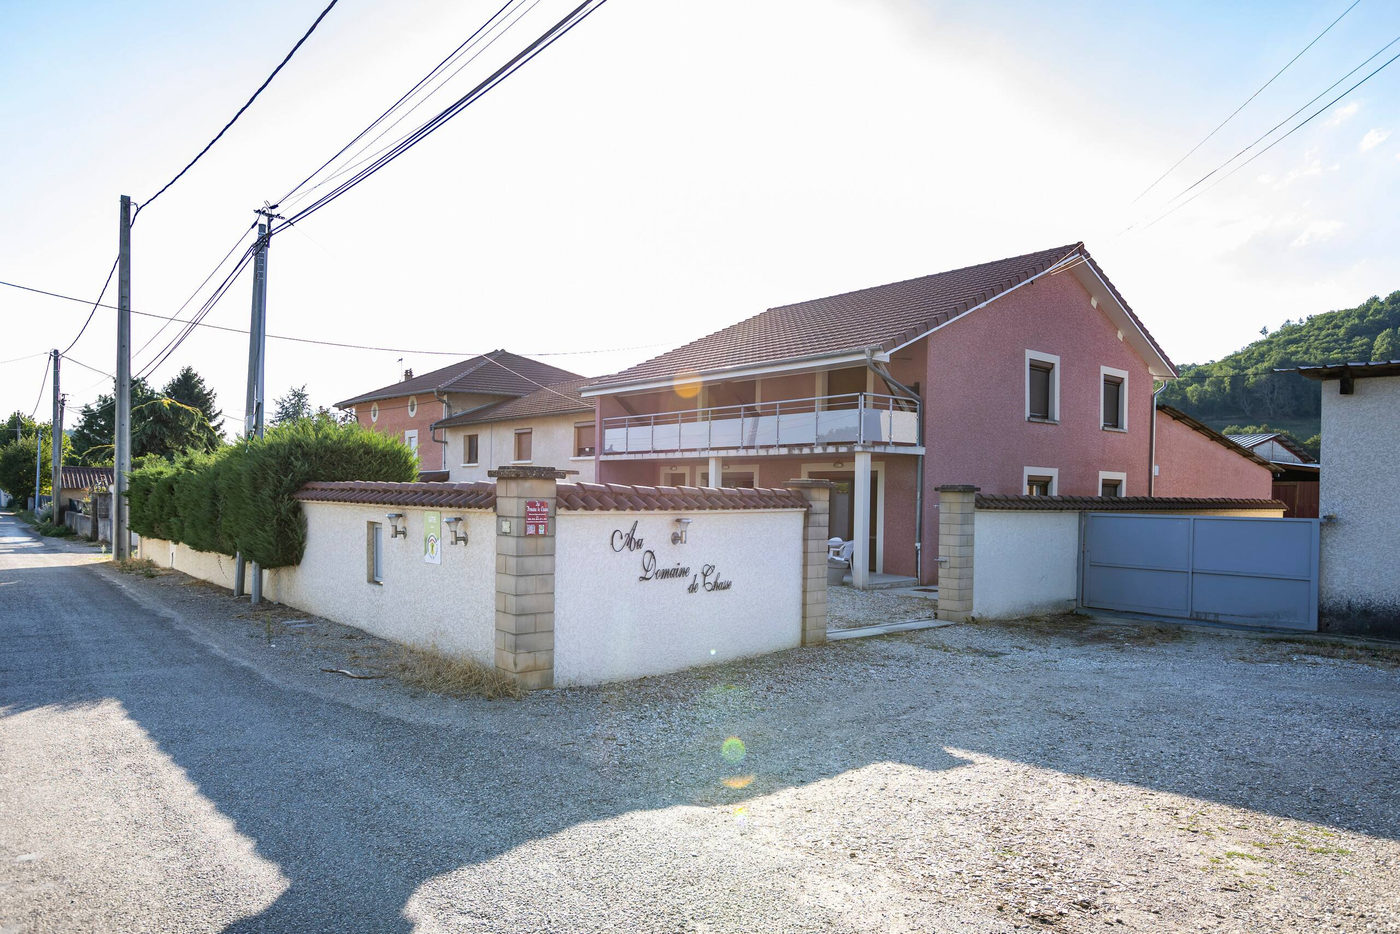
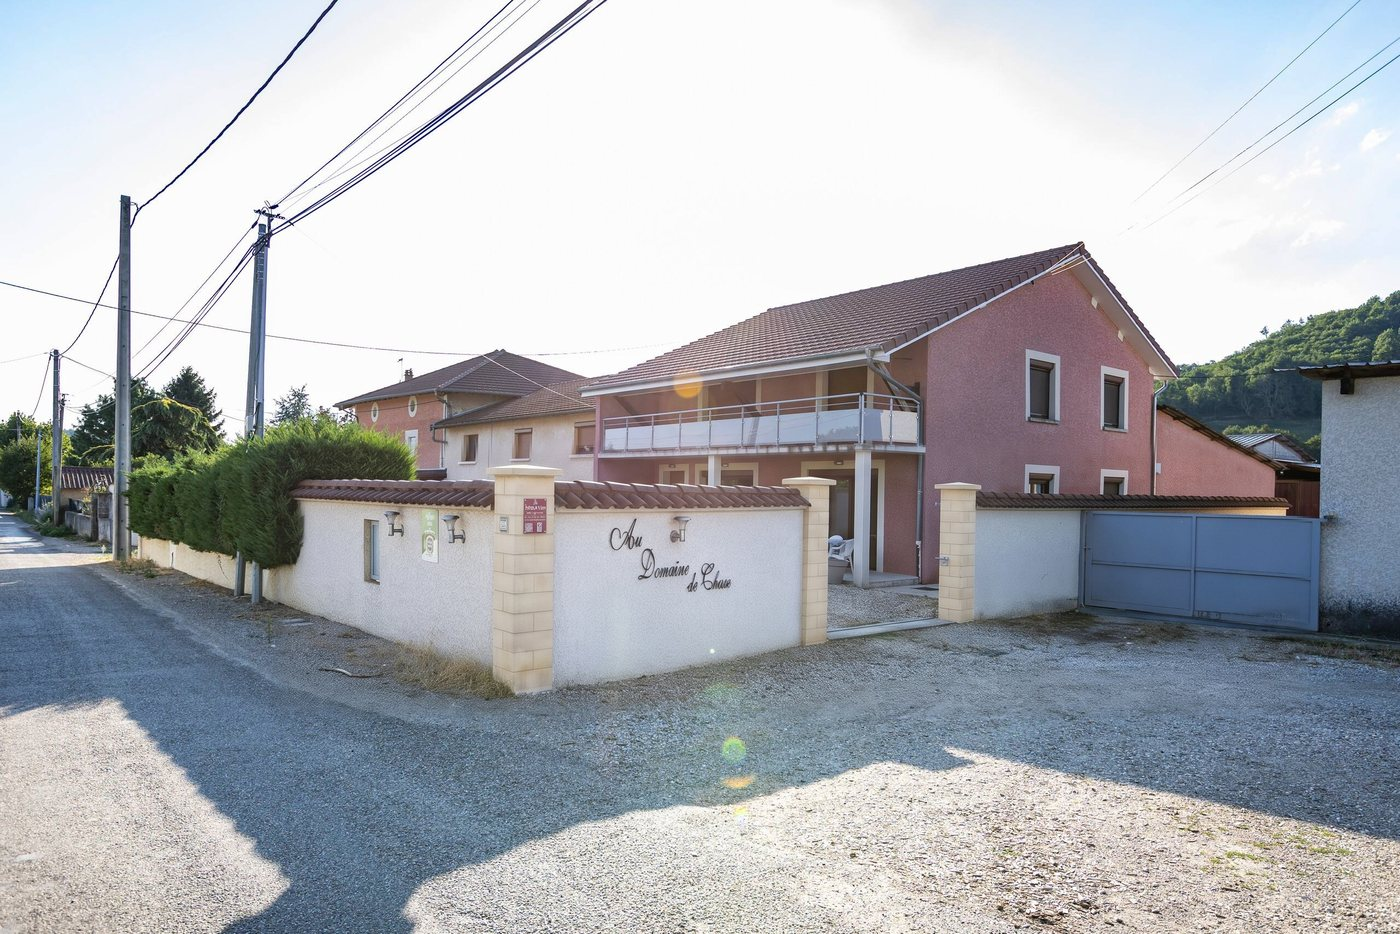
Piliers propres sur deux photos de l'entrée, galerie à 15 photos (bureau, salon de l'étage, salle de bain du rez-de-chaussée)

diff --git a/index.html b/index.html
@@ -118,7 +118,7 @@
 <section class="section creme" id="galerie">
   <div class="conteneur">
     <div class="entete-section"><div><span class="surtitre"><svg viewBox="0 0 24 24" fill="none" stroke="currentColor" stroke-width="1.7" stroke-linecap="round" stroke-linejoin="round" aria-hidden="true"><path d="M12 22V9"/><path d="M12 13c-2.5 0-4-1.6-4-4 2.5 0 4 1.6 4 4zM12 13c2.5 0 4-1.6 4-4-2.5 0-4 1.6-4 4zM12 9c-2.2 0-3.5-1.4-3.5-3.5C10.7 5.5 12 6.9 12 9zM12 9c2.2 0 3.5-1.4 3.5-3.5C13.3 5.5 12 6.9 12 9zM12 5.5c-1-1-1-2.5 0-3.5 1 1 1 2.5 0 3.5z"/></svg>En images</span><h2>La vie <em class="it">au domaine</em></h2></div></div>
-    <div class="mosaique" data-reveal><button class="grand" data-galerie="images/gite/grande-table.jpg" data-legende="La grande table de la salle de loisirs" aria-label="Agrandir : La grande table de la salle de loisirs"><img src="images/gite/grande-table.jpg" alt="La grande table de la salle de loisirs" loading="lazy" decoding="async"><span>La grande table de la salle de loisirs</span></button><button class="" data-galerie="images/gite/plancha.jpg" data-legende="La plancha au jardin" aria-label="Agrandir : La plancha au jardin"><img src="images/gite/plancha.jpg" alt="La plancha au jardin" loading="lazy" decoding="async"><span>La plancha au jardin</span></button><button class="" data-galerie="images/gite/balneo.jpg" data-legende="La baignoire balnéo" aria-label="Agrandir : La baignoire balnéo"><img src="images/gite/balneo.jpg" alt="La baignoire balnéo" loading="lazy" decoding="async"><span>La baignoire balnéo</span></button><button class="" data-galerie="images/gite/chambre-1.jpg" data-legende="Une chambre avec lit queen size" aria-label="Agrandir : Une chambre avec lit queen size"><img src="images/gite/chambre-1.jpg" alt="Une chambre avec lit queen size" loading="lazy" decoding="async"><span>Une chambre avec lit queen size</span></button><button class="" data-galerie="images/gite/terrasse.jpg" data-legende="La terrasse et la cour" aria-label="Agrandir : La terrasse et la cour"><img src="images/gite/terrasse.jpg" alt="La terrasse et la cour" loading="lazy" decoding="async"><span>La terrasse et la cour</span></button><button class="" data-galerie="images/gite/sejour.jpg" data-legende="Le séjour" aria-label="Agrandir : Le séjour"><img src="images/gite/sejour.jpg" alt="Le séjour" loading="lazy" decoding="async"><span>Le séjour</span></button><button class="" data-galerie="images/gite/balcon.jpg" data-legende="Le balcon" aria-label="Agrandir : Le balcon"><img src="images/gite/balcon.jpg" alt="Le balcon" loading="lazy" decoding="async"><span>Le balcon</span></button><button class="" data-galerie="images/gite/salle-a-manger.jpg" data-legende="La salle à manger" aria-label="Agrandir : La salle à manger"><img src="images/gite/salle-a-manger.jpg" alt="La salle à manger" loading="lazy" decoding="async"><span>La salle à manger</span></button><button class="" data-galerie="images/gite/cuisine.jpg" data-legende="La cuisine équipée" aria-label="Agrandir : La cuisine équipée"><img src="images/gite/cuisine.jpg" alt="La cuisine équipée" loading="lazy" decoding="async"><span>La cuisine équipée</span></button><button class="large" data-galerie="images/gite/billard-baby.jpg" data-legende="Le billard et le baby-foot" aria-label="Agrandir : Le billard et le baby-foot"><img src="images/gite/billard-baby.jpg" alt="Le billard et le baby-foot" loading="lazy" decoding="async"><span>Le billard et le baby-foot</span></button><button class="" data-galerie="images/gite/salle-de-bain.jpg" data-legende="La salle de bain" aria-label="Agrandir : La salle de bain"><img src="images/gite/salle-de-bain.jpg" alt="La salle de bain" loading="lazy" decoding="async"><span>La salle de bain</span></button><button class="" data-galerie="images/gite/entree-cour.jpg" data-legende="L’entrée du domaine" aria-label="Agrandir : L’entrée du domaine"><img src="images/gite/entree-cour.jpg" alt="L’entrée du domaine" loading="lazy" decoding="async"><span>L’entrée du domaine</span></button></div>
+    <div class="mosaique" data-reveal><button class="grand" data-galerie="images/gite/grande-table.jpg" data-legende="La grande table de la salle de loisirs" aria-label="Agrandir : La grande table de la salle de loisirs"><img src="images/gite/grande-table.jpg" alt="La grande table de la salle de loisirs" loading="lazy" decoding="async"><span>La grande table de la salle de loisirs</span></button><button class="haut" data-galerie="images/gite/plancha.jpg" data-legende="La plancha au jardin" aria-label="Agrandir : La plancha au jardin"><img src="images/gite/plancha.jpg" alt="La plancha au jardin" loading="lazy" decoding="async"><span>La plancha au jardin</span></button><button class="" data-galerie="images/gite/balneo.jpg" data-legende="La baignoire balnéo" aria-label="Agrandir : La baignoire balnéo"><img src="images/gite/balneo.jpg" alt="La baignoire balnéo" loading="lazy" decoding="async"><span>La baignoire balnéo</span></button><button class="" data-galerie="images/gite/chambre-1.jpg" data-legende="Une chambre avec lit queen size" aria-label="Agrandir : Une chambre avec lit queen size"><img src="images/gite/chambre-1.jpg" alt="Une chambre avec lit queen size" loading="lazy" decoding="async"><span>Une chambre avec lit queen size</span></button><button class="haut" data-galerie="images/gite/bureau.jpg" data-legende="Le bureau" aria-label="Agrandir : Le bureau"><img src="images/gite/bureau.jpg" alt="Le bureau" loading="lazy" decoding="async"><span>Le bureau</span></button><button class="" data-galerie="images/gite/terrasse.jpg" data-legende="La terrasse et la cour" aria-label="Agrandir : La terrasse et la cour"><img src="images/gite/terrasse.jpg" alt="La terrasse et la cour" loading="lazy" decoding="async"><span>La terrasse et la cour</span></button><button class="" data-galerie="images/gite/sejour.jpg" data-legende="Le séjour" aria-label="Agrandir : Le séjour"><img src="images/gite/sejour.jpg" alt="Le séjour" loading="lazy" decoding="async"><span>Le séjour</span></button><button class="" data-galerie="images/gite/salon.jpg" data-legende="Le salon de l’étage" aria-label="Agrandir : Le salon de l’étage"><img src="images/gite/salon.jpg" alt="Le salon de l’étage" loading="lazy" decoding="async"><span>Le salon de l’étage</span></button><button class="" data-galerie="images/gite/balcon.jpg" data-legende="Le balcon" aria-label="Agrandir : Le balcon"><img src="images/gite/balcon.jpg" alt="Le balcon" loading="lazy" decoding="async"><span>Le balcon</span></button><button class="" data-galerie="images/gite/salle-a-manger.jpg" data-legende="La salle à manger" aria-label="Agrandir : La salle à manger"><img src="images/gite/salle-a-manger.jpg" alt="La salle à manger" loading="lazy" decoding="async"><span>La salle à manger</span></button><button class="" data-galerie="images/gite/cuisine.jpg" data-legende="La cuisine équipée" aria-label="Agrandir : La cuisine équipée"><img src="images/gite/cuisine.jpg" alt="La cuisine équipée" loading="lazy" decoding="async"><span>La cuisine équipée</span></button><button class="" data-galerie="images/gite/billard-baby.jpg" data-legende="Le billard et le baby-foot" aria-label="Agrandir : Le billard et le baby-foot"><img src="images/gite/billard-baby.jpg" alt="Le billard et le baby-foot" loading="lazy" decoding="async"><span>Le billard et le baby-foot</span></button><button class="" data-galerie="images/gite/salle-de-bain.jpg" data-legende="La salle de bain" aria-label="Agrandir : La salle de bain"><img src="images/gite/salle-de-bain.jpg" alt="La salle de bain" loading="lazy" decoding="async"><span>La salle de bain</span></button><button class="" data-galerie="images/gite/salle-de-bain-pmr.jpg" data-legende="La salle de bain du rez-de-chaussée" aria-label="Agrandir : La salle de bain du rez-de-chaussée"><img src="images/gite/salle-de-bain-pmr.jpg" alt="La salle de bain du rez-de-chaussée" loading="lazy" decoding="async"><span>La salle de bain du rez-de-chaussée</span></button><button class="" data-galerie="images/gite/entree-cour.jpg" data-legende="L’entrée du domaine" aria-label="Agrandir : L’entrée du domaine"><img src="images/gite/entree-cour.jpg" alt="L’entrée du domaine" loading="lazy" decoding="async"><span>L’entrée du domaine</span></button></div>
   </div>
 </section>
 
